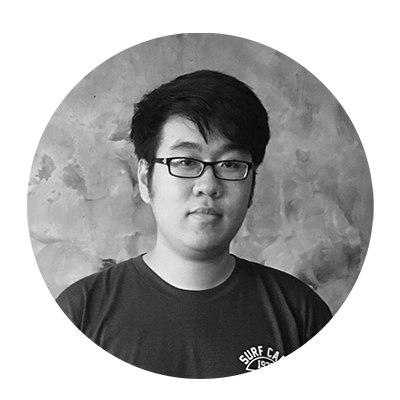
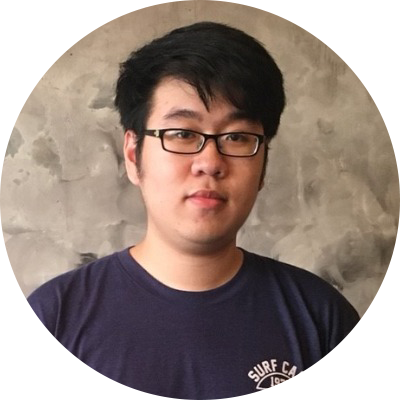
team pic, text, and minor css change

diff --git a/public/css/app.css b/public/css/app.css
@@ -81,6 +81,7 @@ input {
   font-size: 36px;
   letter-spacing: 1px;
   margin-right: 30px;
+  font-style: italic;
 }
 .ctoaas {
   color: white;
@@ -169,7 +170,7 @@ input {
 }
 
 .content {
-  padding-top: 60px;
+  padding-top: 0;
   padding-bottom: 5px;
   margin: 0 auto;
   position: relative;
@@ -226,6 +227,7 @@ input {
 
 .benefit-box img {
   height: 110px;
+  margin-bottom: 20px;
 }
 
 .benefit-desc {
@@ -305,18 +307,22 @@ input {
 }
 
 .circle {
-  margin-bottom: 20px;
 }
 
 .circle img {
   height: 200px;
-  margin: 0 35px;
+  margin: 20px 35px;
+  filter: grayscale(100%);
+  transition: 0.3s;
+}
+.circle img:hover{
+  filter: grayscale(0);
 }
 
 .title-header {
   font-size: 26px;
   color: #122433;
-  font-family: robotmed;
+  font-family: robotMed;
   margin-top: 15px;
   margin-bottom: 25px;
 }
@@ -366,7 +372,7 @@ input {
 
 .social-icon img {
   height: 30px;
-  margin-right: 20px;
+  margin: 0 10px;
 }
 
 .modal {
@@ -619,7 +625,8 @@ input {
 
 @media screen and (min-width: 1440px) {
   .desc-word {
-    font-size: 24px;
+    font-size: 23px;
+    letter-spacing: 0.5px;
   }
 
   .img-phone img {
@@ -645,5 +652,9 @@ input {
 
 .our-team > .row {
   margin: 0;
+}
+
+.footer-text{
+  letter-spacing: 1px;
 }
 

diff --git a/resources/views/home/index.blade.php b/resources/views/home/index.blade.php
@@ -12,7 +12,7 @@
     <meta charset="utf-8" />
     <meta name="viewport" content="width=device-width, initial-scale=1" />
     <meta name="csrf-token" content="{{ csrf_token() }}">
-    <title>BYTEFORCE | CTOaaS | Jakarta</title>
+    <title>BYTEFORCE | CTOaaS | Indonesia</title>
     <meta name="description" content="We (ByteForce Indonesia) are a CTO-as-a-service company in Jakarta. We provide technological expertise from a CTO role in a pay-what-you-need modular model."/>
 
     <!-- ICON -->
@@ -46,12 +46,12 @@
             </div>
 
             <div class="ctoaas">
-                <div class="title">CTOaaS</div>
+                <div class="title">CTO-as-a-Service</div>
                 <div class="ctoaas-desc">
                     <div class="desc-word">
-                    Our CTOaaS is a service which provides technological expertise
-                    from a CTO role in a pay-what-you-need modular model.
-                    You can choose what services are required from the CTOaaS
+                    Byteforce is a software house with a CTO-as-a-Service model.
+                    We provide technological expertise from a CTO role in a pay-what-you-need modular menu.
+                    You can choose what services are required from our CTOaaS
                     for your business.
                     </div>
                     <div class="drow drow-override">
@@ -139,19 +139,19 @@
                 <div class="col-md-4 benefit-box"  data-aos="fade-up" data-aos-delay="50">
                     <img src="{{ asset('images/select.svg') }}" alt="Maintenance">
                     <div class="benefit-desc">
-                        Make sure you utilize the correct tech and minimise tech risks in the future
+                        Tech stack consulting to minimise tech risks in the future
                     </div>
                 </div>
                 <div class="col-md-4 benefit-box"  data-aos="fade-up" data-aos-delay="100">
                     <img src="{{ asset('images/team-tech.svg') }}" alt="Maintenance">
                     <div class="benefit-desc">
-                        Access to a team of tech savvy enthusiasts
+                        Access to a dedicated team of tech savvy enthusiasts
                     </div>
                 </div>
             </div>
         </div>
 
-        <div class="title-header">Who This Service is For</div>
+        <div class="title-header">Who this Service is for</div>
         <div class="whofor">
             <div class=" centerized row">
                 <div class="chip cleft" data-aos="fade-right">
@@ -185,7 +185,7 @@
 
         @if (count($partners) > 0)
             <div class="our-works">
-                <div class="title-header">Our Partnerships</div>
+                <div class="title-header">Our Partners</div>
                 <div class="gridc centerized">
                     @for ($i = 0; $i < count($partners); $i++)
                         <a href="{{ $partners[$i]["weblink"] }}" target="_blank" rel="noopener noreferrer">
@@ -228,11 +228,14 @@
                 <svg xmlns="http://www.w3.org/2000/svg" viewBox="0 0 1350 422"><defs><style>.cls-1{fill:#ffffff;}</style></defs><g id="Layer_2" data-name="Layer 2"><g id="OBJECTS"><path class="cls-1" d="M0,0H1350V26a461.45,461.45,0,0,1-32,35.08,47.62,47.62,0,0,1-3.55,4.1c-14.41,14.1-31,25.22-48.61,34.77-45.16,24.48-93.84,37.56-144.54,43.93-25.3,3.18-50.69,4.53-76.19,5.17-15.65.39-31.32,1.08-46.94.6-26.46-.81-52.94-.83-79.38-2-22.62-1-45.24-1.47-67.88-2-18.48-.45-37-.87-55.44-.81-44.88.16-89.51,3.53-133.73,11.31-29.81,5.24-58.44,14.79-86.71,25.41-45.66,17.16-89,39.28-131.55,62.9-43.43,24.07-85.76,50.06-129.18,74.16-53.55,29.74-108.27,56.89-166.8,75.59A614,614,0,0,1,25,419.9c-6.13.65-22,2.1-25,2.1"/></g></g></svg>
             </div>
             <div class="footer-content">
-                <div>BYTEFORCE 2020</div>
-                <div>reach@byteforce.id</div>
-                <div class="whatsapp-span"><img src="{{ asset('images/whatsapp.svg') }}" alt="whatsapp"><span>(+62) 812-8997-3880</span></div>
+                <div class="footer-text">BYTEFORCE 2020</div>
+                <div class="footer-text">reach@byteforce.id</div>
                 <div class="social-icon">
-                    <a href="https://www.instagram.com/byteforce.id/" target="_blank">
+                    <a href="https://wa.me/6281289973880" target="_blank">
+                        <img src="{{ asset('images/whatsapp.svg') }}" alt="whatsapp">
+                    </a>
+
+                    <a href="https://www.instagram.com/byteforce.id" target="_blank">
                         <img src="{{ asset('images/insta.svg') }}" alt="instagram">
                     </a>
 
@@ -274,7 +277,7 @@
                                 <div class="form-group">
                                     <label>Email</label>
                                     <input id="contactEmail" type="email" class="form-control" placeholder="Enter email">
-                                    <small class="form-text text-muted">We don't share your email to anyone.</small>
+                                    <small class="form-text text-muted">We won't share your email to anyone.</small>
     
                                 </div>
                             </div>
